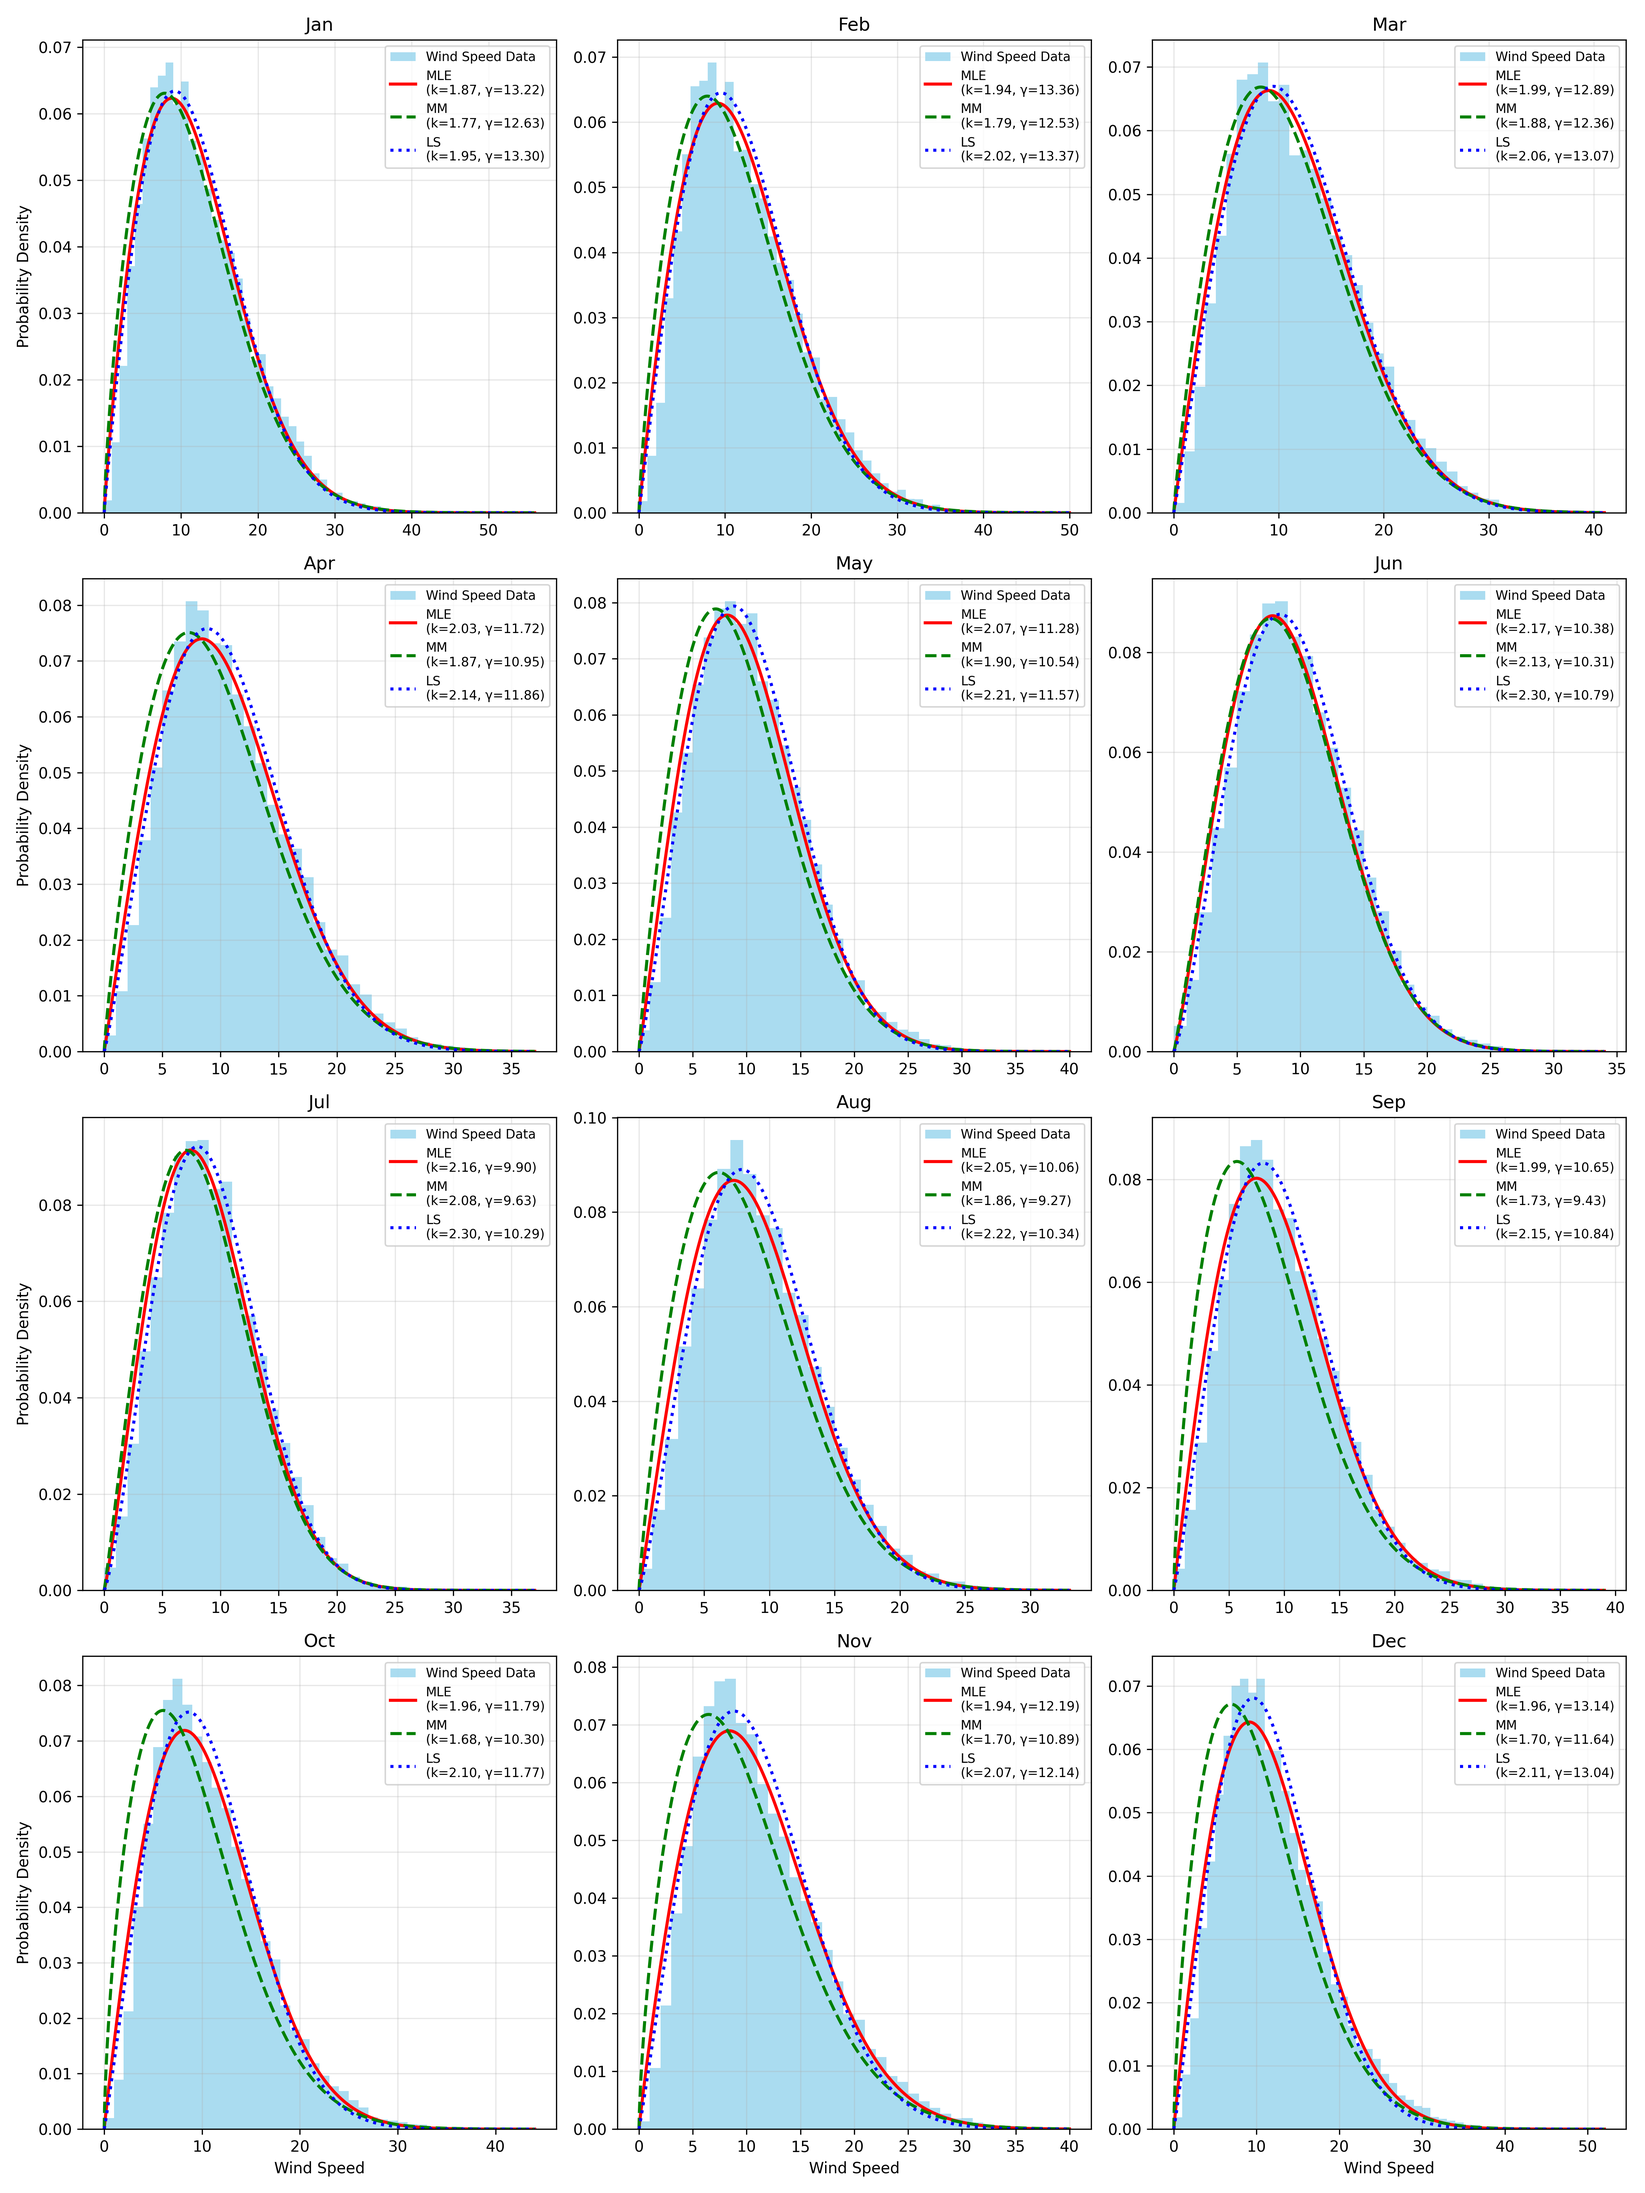
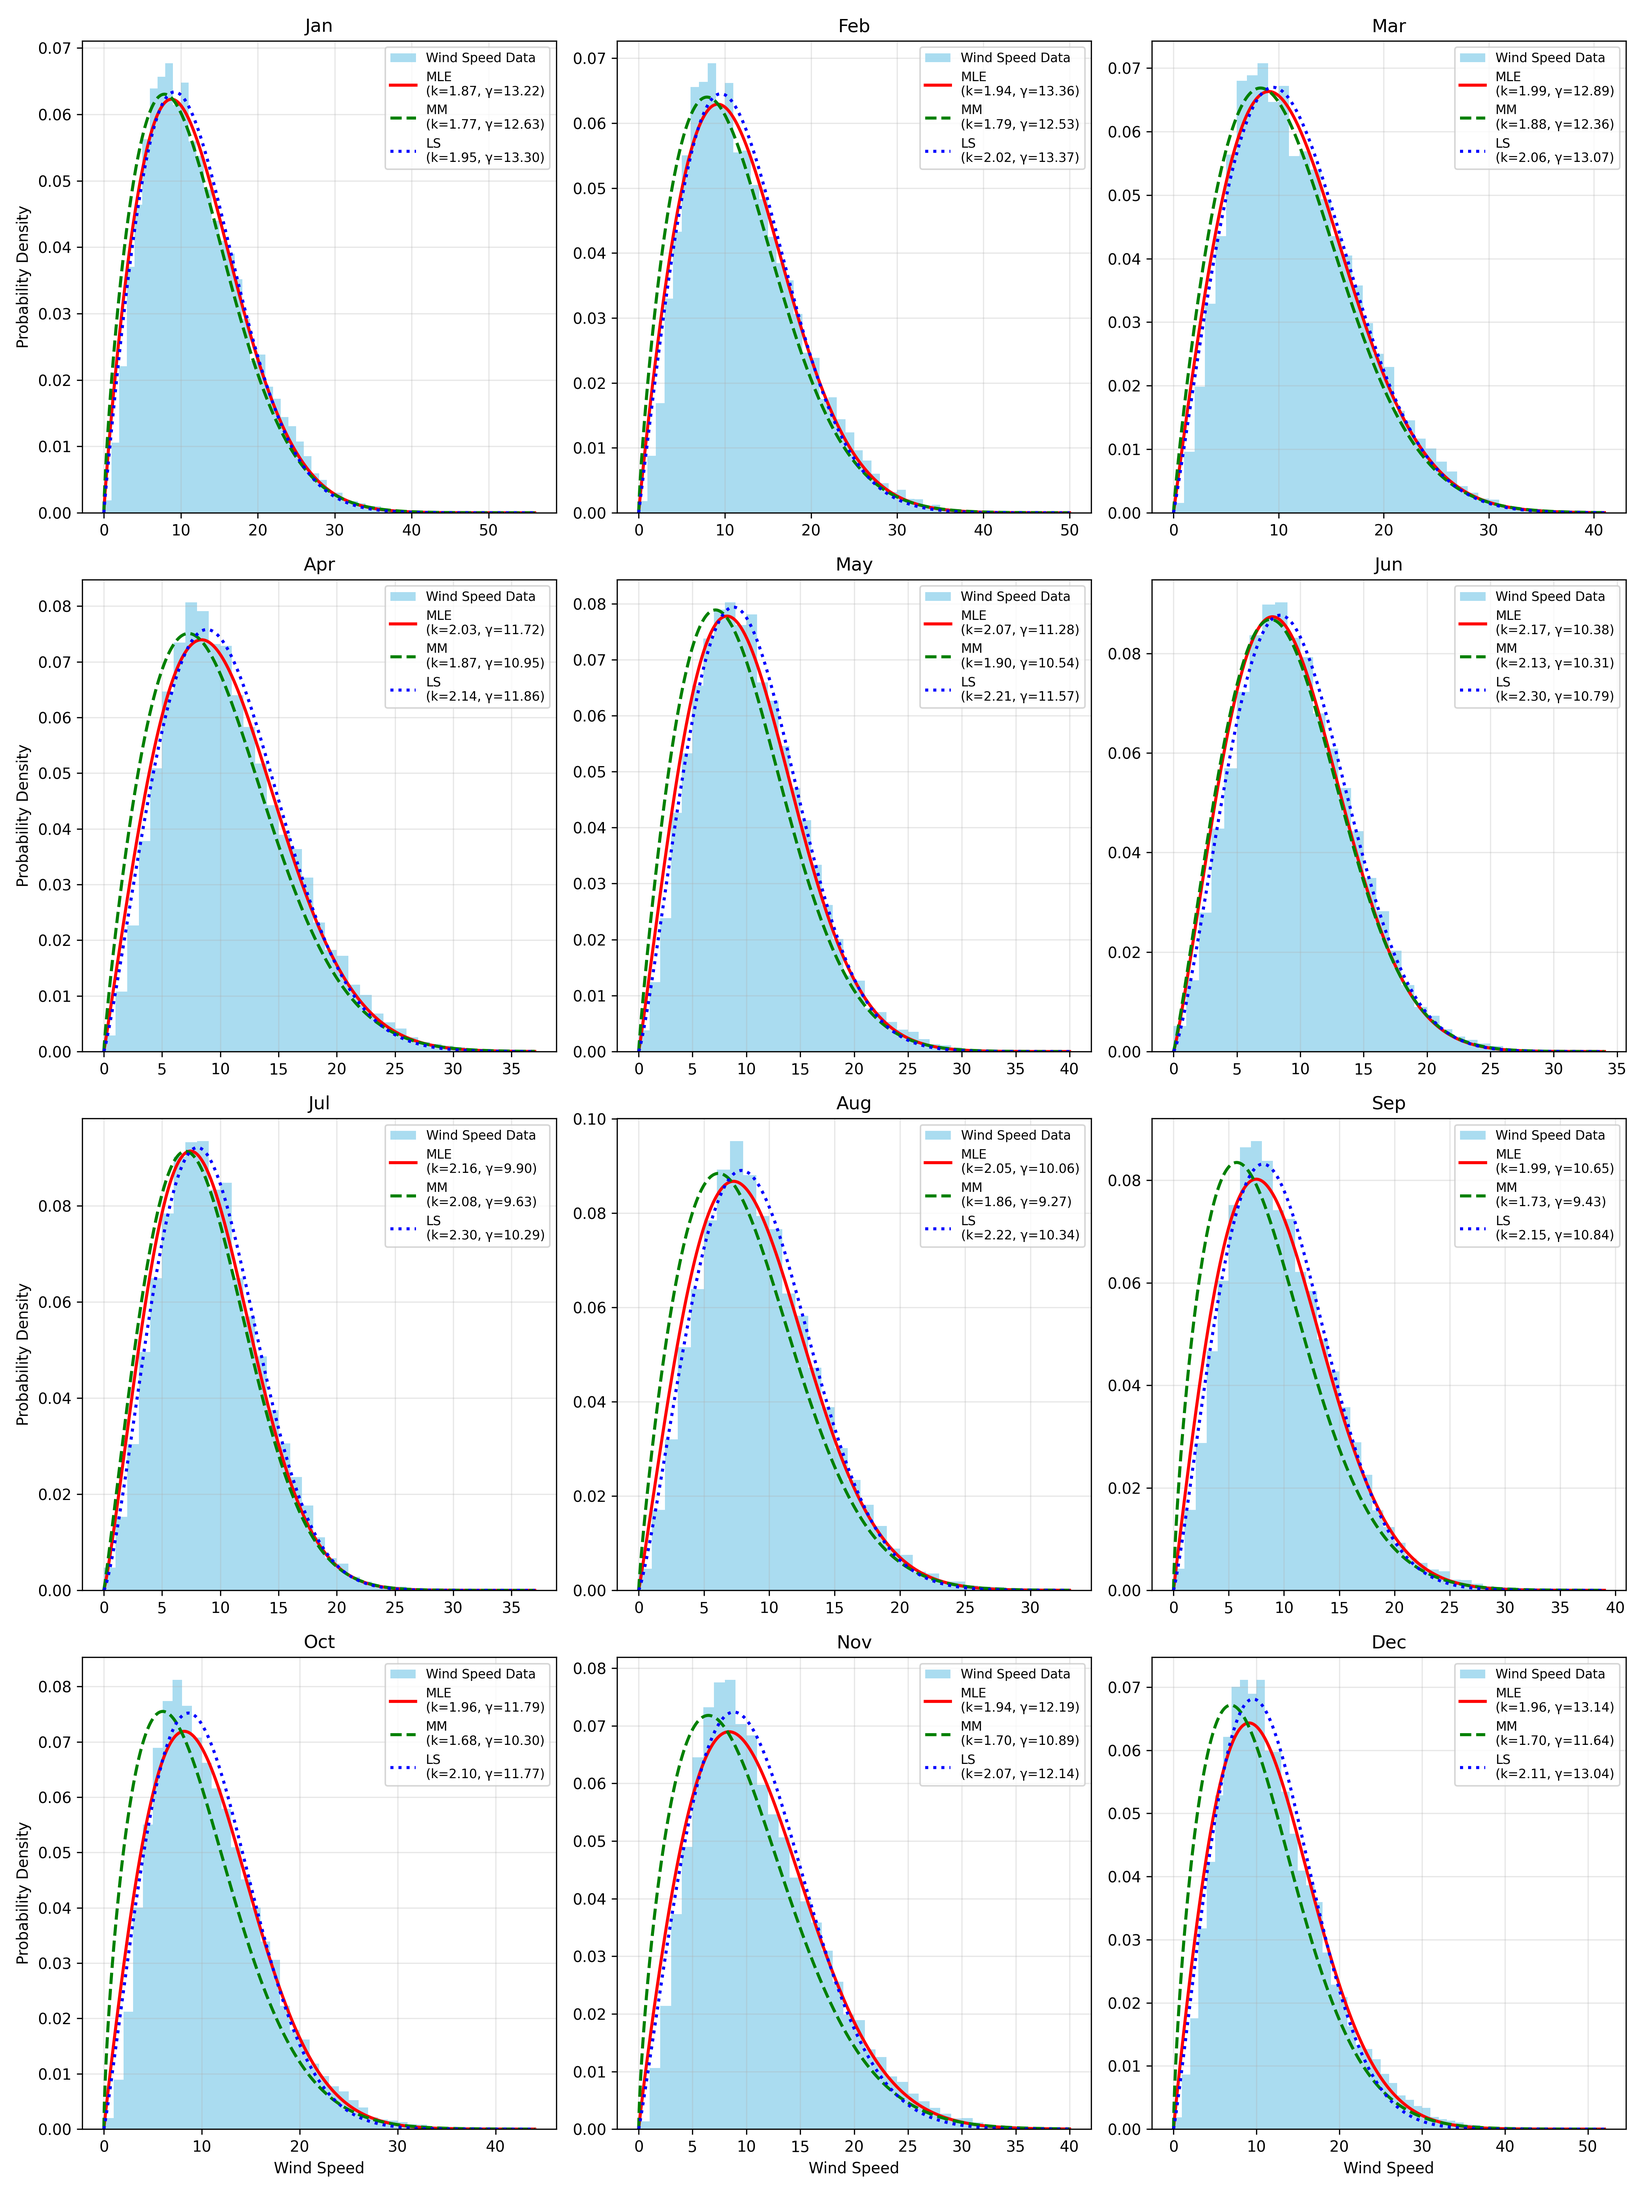
remove empty values, makes bins exactly 1

diff --git a/weibull_analysis.py b/weibull_analysis.py
@@ -41,7 +41,8 @@ def fit_weibull_to_monthly_wind_data(monthly_wind_speeds, input_file):
         params[month] = {}
 
         # Plot histogram of data points
-        ax.hist(wind_speeds, bins="auto", density=True, alpha=0.7, color="skyblue", label="Wind Speed Data")
+        bins = np.arange(0, np.ceil(max(wind_speeds)) + 1, 1)
+        ax.hist(wind_speeds, bins=bins, density=True, alpha=0.7, color="skyblue", label="Wind Speed Data")
         for method in fit_methods:
             try:
                 if method in ["mle", "mm"]:
@@ -89,26 +90,30 @@ def fit_weibull_to_monthly_wind_data(monthly_wind_speeds, input_file):
 
 def read_wind_data(file_path):
     """
-    Read wind speed data from a CSV file and group by month.
+    Read wind speed data from a CSV file and group by month, ignoring invalid or missing data.
     """
     try:
-        # Read CSV with low_memory=False to avoid DtypeWarning
+        # Read only relevant columns
         df = pd.read_csv(file_path, usecols=["wdsp", "date"], low_memory=False)
 
-        # Convert wind speeds to numeric, invalid values become NaN
+        # Convert wind speed to numeric (invalid values become NaN)
         df["wdsp"] = pd.to_numeric(df["wdsp"], errors="coerce")
 
-        # Drop any rows where wind speed is NaN
+        # Drop rows where wind speed or date is missing
         df = df.dropna(subset=["wdsp", "date"])
 
         # Convert dates
-        df["date"] = pd.to_datetime(df["date"], format="%d-%b-%Y %H:%M")
+        df["date"] = pd.to_datetime(df["date"], format="%d-%b-%Y %H:%M", errors="coerce")
+        df = df.dropna(subset=["date"])  # In case datetime conversion failed
+
+        # Add month column
         df["month"] = df["date"].dt.month
 
-        # Group data by month
+        # Group by month into dictionaries
         monthly_speeds = {month: group["wdsp"].values for month, group in df.groupby("month")}
         monthly_dates = {month: group["date"].values for month, group in df.groupby("month")}
-        # Count and print number of zero wind speeds
+
+        # Print zero wind speeds count
         for month, speeds in monthly_speeds.items():
             zero_count = np.sum(speeds == 0)
             print(f"Month {month}: {zero_count} zero wind speed measurements")
